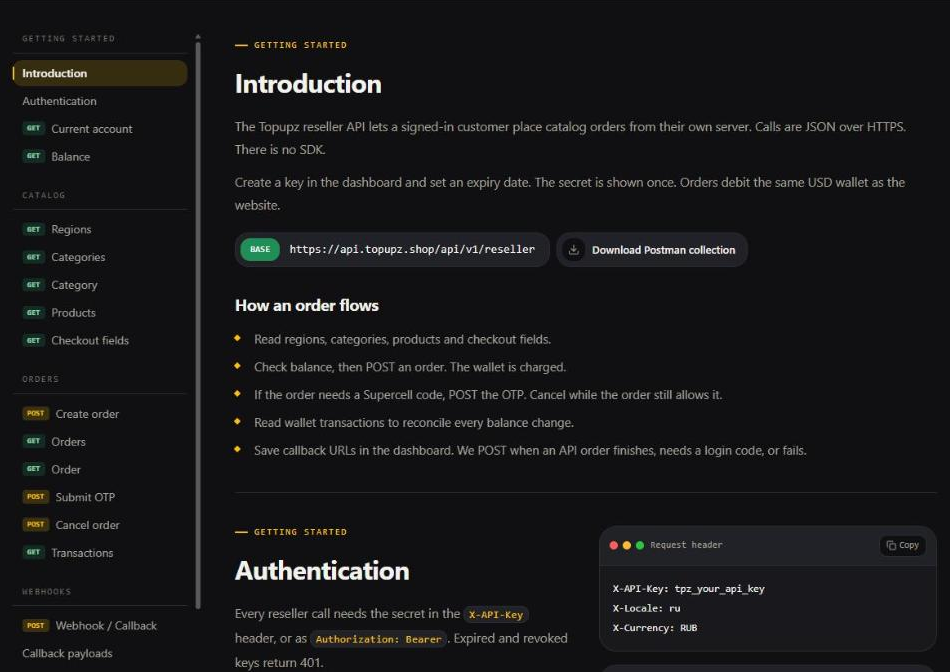
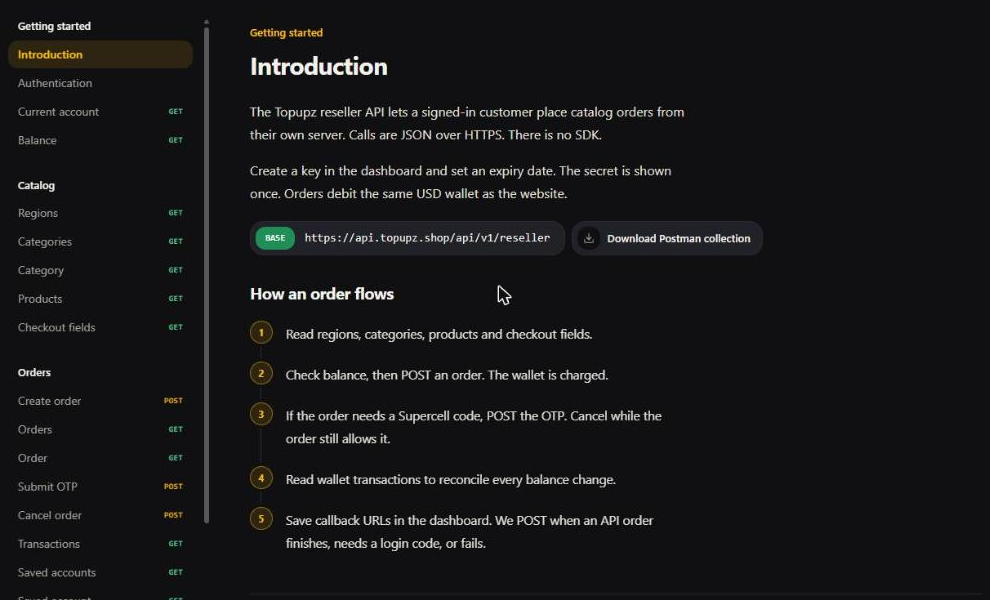
New docs screenshots, saved accounts in the examples

diff --git a/examples/php/topup.php b/examples/php/topup.php
@@ -41,3 +41,19 @@ $order = api('POST', '/orders', [
 echo "Order {$order['id']} {$order['status']}\n";
 // When $order['fulfillment']['requires_otp'] is true:
 // api('POST', "/orders/{$order['id']}/otp", ['otp' => '123456']);
+
+// Saved accounts: every completed order saves the game account it used.
+// Filter by email, order_id or game; sort by date or order_id, asc or desc.
+$saved = api('GET', '/accounts?' . http_build_query([
+    'game' => 57, 'email' => $email, 'sort' => 'order_id', 'order' => 'asc',
+]));
+foreach ($saved['items'] as $account) {
+    echo "Saved: {$account['id']} {$account['title']} (last order {$account['last_order_id']})
+";
+}
+if (! empty($saved['items'])) {
+    // Order again without sending the fields: they come from the saved account.
+    $again = api('POST', '/orders', ['product_id' => $pack['id'], 'account_id' => $saved['items'][0]['id']]);
+    echo "Repeat order {$again['id']} {$again['status']}
+";
+}

diff --git a/examples/python/topup.py b/examples/python/topup.py
@@ -33,3 +33,13 @@ order = api("POST", "/orders", {"product_id": gems["id"], "fields": {"supercell_
 print("Order", order["id"], order["status"], order["fulfillment"])
 # When order["fulfillment"]["requires_otp"] is True:
 # api("POST", f"/orders/{order['id']}/otp", {"otp": "123456"})
+
+# Saved accounts: every completed order saves the game account it used.
+# Filter by email, order_id or game; sort by date or order_id, asc or desc.
+saved = api("GET", f"/accounts?game=55&email={email}&sort=date&order=desc")
+for account in saved["items"]:
+    print("Saved:", account["id"], account["title"], "last order", account["last_order_id"])
+if saved["items"]:
+    # Order again without sending the fields: they come from the saved account.
+    again = api("POST", "/orders", {"product_id": gems["id"], "account_id": saved["items"][0]["id"]})
+    print("Repeat order", again["id"], again["status"])

diff --git a/README.md b/README.md
@@ -131,9 +131,13 @@ Clash Royale gems and Diamond Pass (category `56`), Hay Day diamonds and Farm Pa
 | `GET` / `PUT` | `/callbacks` | Read or save webhook URLs |
 | `GET` | `/callbacks/log` | Every callback sent to you (catch up on missed ones) |
 
-Full reference with every response: **[topupz.shop/docs](https://topupz.shop/en/docs)** · Postman collection on the same page.
+Full reference with every response: **[topupz.shop/docs](https://topupz.shop/en/docs)** · Postman collection on the same page. Press <kbd>Ctrl</kbd> <kbd>K</kbd> there to search the docs.
+
+<p align="center"><img src="screenshots/05-search.png" alt="Search the Topupz API docs" width="560"></p>
 
 ## 💾 Saved accounts
+
+<p align="center"><img src="screenshots/04-saved-accounts.png" alt="Saved accounts API: filter by email, order or game" width="900"></p>
 
 Every completed order saves the game account it used (Player ID / Supercell ID email, never passwords), once per game. List them to repeat an order without asking your customer again.
 
